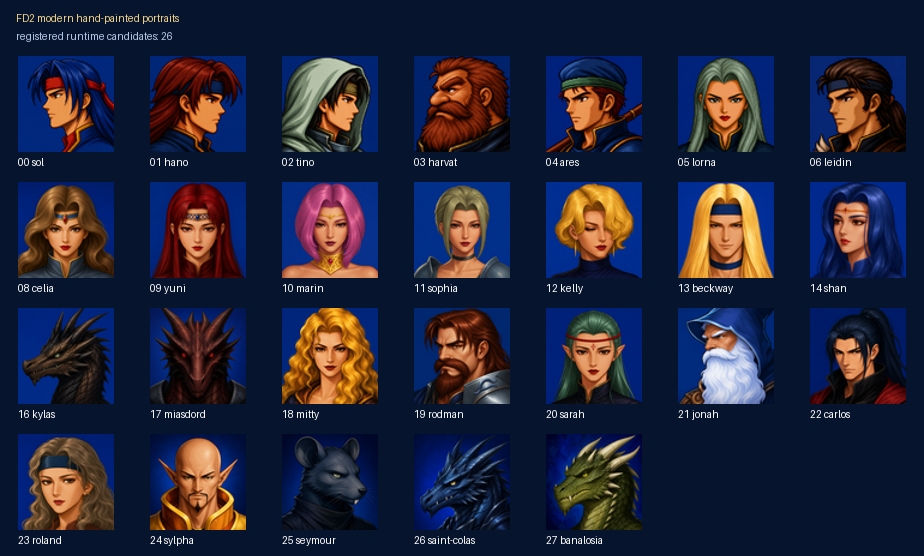
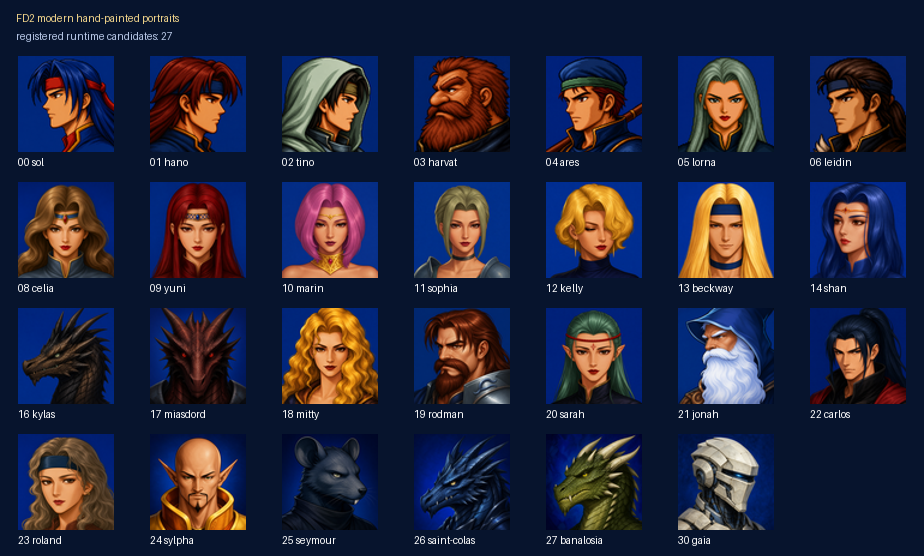
feat: 新增蓋亞並續審第二章對話

Changed region(s): [[0.7273, 0.7644, 0.8485, 0.9784]]

diff --git a/remake/cmd/fd2/story_locale_test.go b/remake/cmd/fd2/story_locale_test.go
@@ -98,6 +98,18 @@ func TestReviewedChapterTwoCampaignTranslationsAndItemEntities(t *testing.T) {
 			"legacy/line/5bf145f103fe/scenes/0/lines/10/text":                                       "ヤッホー！予告どおり時間ぴったりに来たぜ！おや？まだ命知らずが残っているのか？",
 			"legacy/line/5bf145f103fe/scenes/0/lines/11/speaker-name":                               "村人",
 			"legacy/line/5bf145f103fe/scenes/0/lines/11/text":                                       "ああ、盗賊だ！もうおしまいだ！",
+			"legacy/line/5bf145f103fe/scenes/0/lines/12/speaker-name":                               "盗賊B",
+			"legacy/line/5bf145f103fe/scenes/0/lines/12/text":                                       "俺たちが来たら町に残るなと言っただろう？死にたいのか！",
+			"legacy/line/5bf145f103fe/scenes/0/lines/13/speaker-name":                               "村人",
+			"legacy/line/5bf145f103fe/scenes/0/lines/13/text":                                       "ああ、盗賊様、どうか見逃してください。もう二度としません！",
+			"legacy/line/5bf145f103fe/scenes/0/lines/14/speaker-name":                               "アレス",
+			"legacy/line/5bf145f103fe/scenes/0/lines/14/text":                                       "なんて乱暴な盗賊たちだ！ソール、奴らに思い知らせてやろう！",
+			"legacy/line/5bf145f103fe/scenes/0/lines/15/speaker-name":                               "ソール",
+			"legacy/line/5bf145f103fe/scenes/0/lines/15/text":                                       "何が『教訓』だ！こいつらに悔い改める暇など与えず、皆殺しにしてやる！",
+			"legacy/line/5bf145f103fe/scenes/0/lines/16/speaker-name":                               "ハノ",
+			"legacy/line/5bf145f103fe/scenes/0/lines/16/text":                                       "賛成だ！",
+			"legacy/line/5bf145f103fe/scenes/0/lines/17/speaker-name":                               "盗賊B",
+			"legacy/line/5bf145f103fe/scenes/0/lines/17/text":                                       "おいおい、あの若造ども、俺たちを皆殺しにするつもりらしいぞ！",
 		},
 		"en": {
 			"legacy.json.remake.assets.scenarios.campaign_full.nodes.preparation_ch02.prompt":       "Enter the battlefield?",
@@ -134,6 +146,18 @@ func TestReviewedChapterTwoCampaignTranslationsAndItemEntities(t *testing.T) {
 			"legacy/line/5bf145f103fe/scenes/0/lines/10/text":                                       "Yahoo! We've arrived right on schedule, just as announced! Huh? Some fools are still here?",
 			"legacy/line/5bf145f103fe/scenes/0/lines/11/speaker-name":                               "Villager",
 			"legacy/line/5bf145f103fe/scenes/0/lines/11/text":                                       "The bandits are here! We're doomed!",
+			"legacy/line/5bf145f103fe/scenes/0/lines/12/speaker-name":                               "Bandit B",
+			"legacy/line/5bf145f103fe/scenes/0/lines/12/text":                                       "Didn't we say no one was to remain in town when we arrived? Are you trying to get yourselves killed?",
+			"legacy/line/5bf145f103fe/scenes/0/lines/13/speaker-name":                               "Villager",
+			"legacy/line/5bf145f103fe/scenes/0/lines/13/text":                                       "Ah, Lord Bandit, please spare us. We won't do it again!",
+			"legacy/line/5bf145f103fe/scenes/0/lines/14/speaker-name":                               "Ares",
+			"legacy/line/5bf145f103fe/scenes/0/lines/14/text":                                       "These bandits are outrageous! Sol, let's teach them a lesson!",
+			"legacy/line/5bf145f103fe/scenes/0/lines/15/speaker-name":                               "Sol",
+			"legacy/line/5bf145f103fe/scenes/0/lines/15/text":                                       "What lesson? We'll give these scum no chance to repent—kill them all!",
+			"legacy/line/5bf145f103fe/scenes/0/lines/16/speaker-name":                               "Hano",
+			"legacy/line/5bf145f103fe/scenes/0/lines/16/text":                                       "I agree!",
+			"legacy/line/5bf145f103fe/scenes/0/lines/17/speaker-name":                               "Bandit B",
+			"legacy/line/5bf145f103fe/scenes/0/lines/17/text":                                       "Oh dear! Those youngsters say they're going to kill us all!",
 		},
 		"zh-Hans": {
 			"legacy.json.remake.assets.scenarios.campaign_full.nodes.preparation_ch02.prompt":       "要进入战场吗？",
@@ -170,6 +194,18 @@ func TestReviewedChapterTwoCampaignTranslationsAndItemEntities(t *testing.T) {
 			"legacy/line/5bf145f103fe/scenes/0/lines/10/text":                                       "呀呼！我们照预告准时抵达！咦？居然还有不怕死的没走？",
 			"legacy/line/5bf145f103fe/scenes/0/lines/11/speaker-name":                               "村民",
 			"legacy/line/5bf145f103fe/scenes/0/lines/11/text":                                       "啊！强盗来了！完啦！",
+			"legacy/line/5bf145f103fe/scenes/0/lines/12/speaker-name":                               "强盗B",
+			"legacy/line/5bf145f103fe/scenes/0/lines/12/text":                                       "我们不是说过，我们来的时候不准有人留在镇上吗？你们是活得不耐烦了！",
+			"legacy/line/5bf145f103fe/scenes/0/lines/13/speaker-name":                               "村民",
+			"legacy/line/5bf145f103fe/scenes/0/lines/13/text":                                       "……啊，强盗大人，请放我们一马，以后不敢了！",
+			"legacy/line/5bf145f103fe/scenes/0/lines/14/speaker-name":                               "亚雷斯",
+			"legacy/line/5bf145f103fe/scenes/0/lines/14/text":                                       "这些强盗真猖狂啊！索尔，我们来教训他们一顿！",
+			"legacy/line/5bf145f103fe/scenes/0/lines/15/speaker-name":                               "索尔",
+			"legacy/line/5bf145f103fe/scenes/0/lines/15/text":                                       "什么教训！不给这些家伙悔改的机会，把他们全宰了再说！",
+			"legacy/line/5bf145f103fe/scenes/0/lines/16/speaker-name":                               "哈诺",
+			"legacy/line/5bf145f103fe/scenes/0/lines/16/text":                                       "我赞成！",
+			"legacy/line/5bf145f103fe/scenes/0/lines/17/speaker-name":                               "强盗B",
+			"legacy/line/5bf145f103fe/scenes/0/lines/17/text":                                       "哎呀！那群小伙子说要把我们全宰了呢！",
 		},
 	}
 	itemWants := map[string]map[int]string{

diff --git a/docs/knowledge-base/91-worklist.md b/docs/knowledge-base/91-worklist.md
@@ -36,8 +36,8 @@
 | A1 | 編輯器 canonical schema 與穩定身份層 | `DATA-READY（全戰役 legacy projection）／RUNTIME-E1（封包 admission）`：版本化 bundle 現含1份campaign、30份scenario、35份story與38筆角色身份候選；deterministic exporter、跨文件節點／speaker validator、角色身份schema、逐檔SHA-256與完整package self-check已接。Linux AppImage與Windows ZIP重建後均帶入bundle，Linux空白cwd自檢通過。4筆名稱衝突保留直接來源並拒絕猜選 | 解決或明確拆分`native-0/1/7/96`身份歧義；建立canonical→runtime compiler，使正式戰役規則直接消費編輯後文件；再補編輯器UI修改→驗證→執行→存讀檔往返。私人297份animation metadata可顯式匯入，但不作乾淨clone必要輸入 |
 | A2 | 原版素材全量分離與清冊 | `RELEASE-DATA-READY／RESEARCH-PARTIAL`：manifest v2現有39,825筆asset與1,005筆source-resource ledger；901 standardized、11個零長度confirmed-empty、0 blocked、93 unknown。完整本機包有40,127個實體檔案、約104 MB，已於私人庫保存。2026-08-30 `v0.1.1` Linux／Windows本機完整版均為42,258個檔案，macOS為42,332個檔案；三者均綁定engine head `be9a2a77`、通過manifest驗證並標示不可公開。三平台原生公開候選與雜湊也由GitHub Actions重建成功。公開README新增33張完整戰場低解析索引、96組sprite與96組portrait代表幀，不公開可重組逐檔素材。正式`Game` caller未發現93筆unknown有直接archive consumer，因此它們不阻擋第一版 | Windows／macOS實機抽測。只有新證據找到正式consumer才重開unknown，FDOTHER #47／#49不猜接 |
 | A3 | runtime 移除 `.DAT` 即時讀取 | `RUNTIME-E1-PARTIAL`：FDTXT、字型、FDICON、FDSHAP、ANI、FDFIELD主要玩家路徑，以及城鎮、商店、標題、LOAD、整備、教會與戰場初始化均已遷移。19個巢狀音效bank已分離；標題#77選單音與ANI #1的#78 companion均由正式runtime消費。2026-08-29 caller稽核未發現正式`Game`仍直接讀原版archive，`FD2_ORIGINAL_FDOTHER`／`DATO` locator亦已移到測試專用檔，正式binary字串檢查通過；archive adapter只留source-oracle。BGM只從完整驗證的30份OGG catalog解析，物理攻擊亦由分離FIGANI provider原子預檢 | 以version 2 ledger的93筆unknown交叉核對是否有尚未登記的玩家consumer；已具標準資料但缺manifest bridge者只補provenance。沒有正式caller的oracle helper不再列為runtime缺口；只有新證據證明正式consumer存在才重開RE→spec→runtime切片 |
-| A4 | 現代美術主題 | `PROTOTYPE-SET／DATA-CONTRACT-READY／RUNTIME-E1-PARTIAL`：26 位身分已確認角色已有獨立閉嘴頭像母稿／80×80候選，第一關戰場與戰鬥HUD三張style A本機私有稿亦已產生；受版控`themes/modern/catalog.json`保存穩定asset ID、來源、尺寸與SHA-256。26 位speaker候選已由通用`FD2_THEME`正式對話consumer載入；身分／speaker／雜湊／尺寸／不透明契約任一不符即原子拒絕。2026-08-31 身分勘誤：`DATO_001 / speaker 1` 是哈諾，不是亞雷斯；亞雷斯是 `DATO_004 / speaker 4`。錯誤檔名與清冊已修正且未改哈諾像素，並已另產生正確亞雷斯候選。本輪另勘誤`0x9017`為下框右緣錨點，實際左上角是`(8,115)`。FDICON selector 0與68現各有12張`24×24`二值alpha候選與逐格雜湊；索爾基礎selector是0，68則不是固定角色身分，晚期悠妮資料曾使用`0x44`。兩組都用中性的`modern.fdicon.group_NNN.style_a`命名，正式 loader 會原子預檢24檔、雜湊、尺寸、alpha與週期後取代正規化`g.sprites[0]`／`[68]`。selector 0母稿依原版12格生成並確定性裁切；selector 68的雙劍稿已拒收，第11格改為可重現像素合成。原生indexed compositor尚未接真彩覆蓋；直接疊最終畫面會錯蓋foreground，同色寫入也不能靠diff推回mask，因此維持失敗即關閉。規格見`61-modern-theme-runtime-spec.md`。戰場與HUD仍是concept | 擴充native foreground write-mask契約；同時抽測已登錄現代頭像的正常故事上／下框，再依穩定speaker身分繼續逐角色產生候選。map0 tile ID與FDOTHER HUD cells仍須各自建立基準，不能從合成概念圖反切 |
-| A5 | 繁中／簡中／日文／英文與可調文字顯示 | `DATA-READY（5,176筆／語）＋RUNTIME-E1-PARTIAL`：實檔 `entry_count` 四語均為5,176；先前5,205為過期斷言，已依目前完整內容包修正。35份劇本共1,564句具穩定 `line_id`；正式 story、handler dialog及事件61／75／76均查詢四語內容。非繁中原生 indexed 對話已重建安全分頁並依裁決固定閉嘴。FDTXT清冊現涵蓋200個可顯示物品與15個confirmed-empty ID；32名角色、94筆戰鬥raw姓名、35筆非空指令與29筆職業均有四語實體目錄，職業26／27／28保留原版占位。轉職成功與後備確認介面會在mutation前預取四語角色／職業／句型。玩家／敵方共用指令與戰鬥姓名已由共用owner重畫；高頻戰鬥提示、法術結算、寶物／擊破獎勵、教會轉交／復活，以及戰場物品欄、可用性、選擇目標／目的地、回復／傷害／移位演出狀態均已接官方pack。物理攻擊結算若缺角色名與職業名會失敗即關閉，不再顯示硬編碼「攻方／目標」；`figName()` 僅供除錯日誌，不是玩家語系缺口。商店、旅館／出戰整備、勝敗／戰後整備、標題LOAD、教會服務，以及結局素材不足／可編輯結語提示均已移除硬編碼繁中；舊式戰場物品 fallback 的標題與空欄標記也會先原子取得語系文字再繪製。官方介面契約目前每語114鍵；F4會原子同步正式grid與SpellBook相容顯示。2026-09-01 人工審校現況為日文154句、英文145句、簡中122句；第二章已閉合首批商店、城鎮選項、關卡名稱、隊伍姓名、位置摘要、標題及開場連續十二句，日英實體清冊另以人工 override 固定9個高頻品項，其餘內容仍維持機器初稿標記，尚無正常玩家截圖 E2 | 接續第二章故事人工審校，再做四語正常玩家畫面。商店服務格已證實是純圖示，不列翻譯缺口；教會亂碼紋理屬UI codec／palette缺陷。4筆劇情身份歧義不與0–31隊伍顯示目錄合併；raw戰鬥姓名也不以`native_identity`替代 |
+| A4 | 現代美術主題 | `PROTOTYPE-SET／DATA-CONTRACT-READY／RUNTIME-E1-PARTIAL`：27 位身分已確認角色已有獨立閉嘴頭像母稿／80×80候選，第一關戰場與戰鬥HUD三張style A本機私有稿亦已產生；受版控`themes/modern/catalog.json`保存穩定asset ID、來源、尺寸與SHA-256。27 位speaker候選已由通用`FD2_THEME`正式對話consumer載入；身分／speaker／雜湊／尺寸／不透明契約任一不符即原子拒絕。2026-08-31 身分勘誤：`DATO_001 / speaker 1` 是哈諾，不是亞雷斯；亞雷斯是 `DATO_004 / speaker 4`。錯誤檔名與清冊已修正且未改哈諾像素，並已另產生正確亞雷斯候選。本輪另勘誤`0x9017`為下框右緣錨點，實際左上角是`(8,115)`。FDICON selector 0與68現各有12張`24×24`二值alpha候選與逐格雜湊；索爾基礎selector是0，68則不是固定角色身分，晚期悠妮資料曾使用`0x44`。兩組都用中性的`modern.fdicon.group_NNN.style_a`命名，正式 loader 會原子預檢24檔、雜湊、尺寸、alpha與週期後取代正規化`g.sprites[0]`／`[68]`。selector 0母稿依原版12格生成並確定性裁切；selector 68的雙劍稿已拒收，第11格改為可重現像素合成。原生indexed compositor尚未接真彩覆蓋；直接疊最終畫面會錯蓋foreground，同色寫入也不能靠diff推回mask，因此維持失敗即關閉。規格見`61-modern-theme-runtime-spec.md`。戰場與HUD仍是concept | 擴充native foreground write-mask契約；同時抽測已登錄現代頭像的正常故事上／下框，再依穩定speaker身分繼續逐角色產生候選。map0 tile ID與FDOTHER HUD cells仍須各自建立基準，不能從合成概念圖反切 |
+| A5 | 繁中／簡中／日文／英文與可調文字顯示 | `DATA-READY（5,176筆／語）＋RUNTIME-E1-PARTIAL`：實檔 `entry_count` 四語均為5,176；先前5,205為過期斷言，已依目前完整內容包修正。35份劇本共1,564句具穩定 `line_id`；正式 story、handler dialog及事件61／75／76均查詢四語內容。非繁中原生 indexed 對話已重建安全分頁並依裁決固定閉嘴。FDTXT清冊現涵蓋200個可顯示物品與15個confirmed-empty ID；32名角色、94筆戰鬥raw姓名、35筆非空指令與29筆職業均有四語實體目錄，職業26／27／28保留原版占位。轉職成功與後備確認介面會在mutation前預取四語角色／職業／句型。玩家／敵方共用指令與戰鬥姓名已由共用owner重畫；高頻戰鬥提示、法術結算、寶物／擊破獎勵、教會轉交／復活，以及戰場物品欄、可用性、選擇目標／目的地、回復／傷害／移位演出狀態均已接官方pack。物理攻擊結算若缺角色名與職業名會失敗即關閉，不再顯示硬編碼「攻方／目標」；`figName()` 僅供除錯日誌，不是玩家語系缺口。商店、旅館／出戰整備、勝敗／戰後整備、標題LOAD、教會服務，以及結局素材不足／可編輯結語提示均已移除硬編碼繁中；舊式戰場物品 fallback 的標題與空欄標記也會先原子取得語系文字再繪製。官方介面契約目前每語114鍵；F4會原子同步正式grid與SpellBook相容顯示。2026-09-01 人工審校現況為日文166句、英文157句、簡中134句；第二章已閉合首批商店、城鎮選項、關卡名稱、隊伍姓名、位置摘要、標題及開場連續十八句，日英實體清冊另以人工 override 固定9個高頻品項，其餘內容仍維持機器初稿標記，尚無正常玩家截圖 E2 | 接續第二章故事人工審校，再做四語正常玩家畫面。商店服務格已證實是純圖示，不列翻譯缺口；教會亂碼紋理屬UI codec／palette缺陷。4筆劇情身份歧義不與0–31隊伍顯示目錄合併；raw戰鬥姓名也不以`native_identity`替代 |
 
 > **2026-08-31 A5 商店四語追加：**除購買／出售結果四條交易路徑外，
 > **2026-08-31 A5 審校筆數勘誤：**上表的日文 24 句是上一批快照；本批再完成
@@ -168,6 +168,17 @@
 > `68608462` 已保存母稿與執行期 PNG；私人 manifest 現為 79 個 catalog
 > allow-list 檔案，逐檔大小與 SHA-256 驗證通過。
 >
+> **2026-09-01 A4 身分 28／29 停止線：**`DATO_028` 的原始名稱「達克賽」
+> 與四語顯示清冊「達克塞」衝突；`DATO_029` 的「亞奇梅吉」與「亞齊梅吉」
+> 亦衝突。兩者均保留 legacy alias，字形裁決前不產生或接通現代頭像；未知種族
+> 欄位也不以故事描述代填。
+>
+> **2026-09-01 A4 蓋亞追加：**`DATO_030`、機兵職業、四語隊伍姓名與故事中的
+> 機能／導航敘述共同確認蓋亞；原版頭像呈現向右的白灰分段裝甲機械頭、深色
+> 水平視窗與藍色關節／線路。現代主題現有 27 位私有頭像候選。
+> `fd2-assets-private` 提交 `f73c6751` 已保存母稿與執行期 PNG；私人 manifest
+> 現為 81 個 catalog allow-list 檔案，逐檔大小與 SHA-256 驗證通過。
+>
 > **2026-08-31 A5 第一章英文停止線：**第一章故事與事件只剩
 > `奈野啊捏?` 一句未審校；`Nano`、`Naino` 與日文 `ナイノ・フィニックス`
 > 均只有機器草稿，且沒有角色／實體清冊可定案。此句維持 `machine_draft`，
@@ -182,6 +193,11 @@
 > 完成日文、英文與簡中人工審校，再新增每語 12 筆 `reviewed`。本批修正日文
 > 長段語意顛倒、英文遺漏「或許能幫忙」及複數村民誤名；亞雷斯、蓋亞與強盜 B
 > 均沿用既定身分。其餘機器初稿仍不升格。
+>
+> **2026-09-01 A5 第二章故事第三批：**同一場景第 12–17 句及其說話者名稱已
+> 完成日文、英文與簡中人工審校，再新增每語 12 筆 `reviewed`。本批修正日文
+> 「放我們一馬」誤譯、英文漏句與 `Sole`，並固定 `Bandit B`／`盗賊B`；其餘
+> 機器初稿仍不升格。
 >
 > **2026-08-31 A5 商店四語追加：**除購買／出售結果四條交易路徑外，
 > 正規化商店的購買／出售標題、裝備標記、收件角色欄位與操作提示另有

diff --git a/docs/knowledge-base/61-modern-theme-runtime-spec.md b/docs/knowledge-base/61-modern-theme-runtime-spec.md
@@ -221,6 +221,13 @@
   為巴拿羅西亞（`Banalosia`）。人工影像檢視保留原版向左的橄欖綠龍首、狹長
   黃眼、頭頂與頸後淡色尖角、分層鱗片及外露尖牙；不從職業名稱臆造盔甲或飾品。
   身分標籤統計與展開後故事台詞筆數屬不同量尺，不得混稱。
+- `modern.gaia.portrait.style_a.frame0`
+- 執行期檔：`gaia-portrait-style-a-v1-80.png`，`80×80`，SHA-256
[1 lines of base64/hex data omitted]
+- 母稿：`gaia-portrait-style-a-v1-master.png`，`1254×1254`；角色身分由
+  `DATO_030_m0`、角色資料表的機兵職業、四語隊伍姓名清冊及故事中的機能／導航
+  敘述共同確認為蓋亞（`Gaia`）。人工影像檢視保留原版向右的非人機械頭、白灰
+  分段裝甲、深色水平視窗及藍色關節／線路；種族欄位仍未解碼，不另加種族斷言。
 - `modern.tino.portrait.style_a.frame0`
 - 執行期檔：`tino-portrait-style-a-v1-80.png`，`80×80`，SHA-256
[1 lines of base64/hex data omitted]
